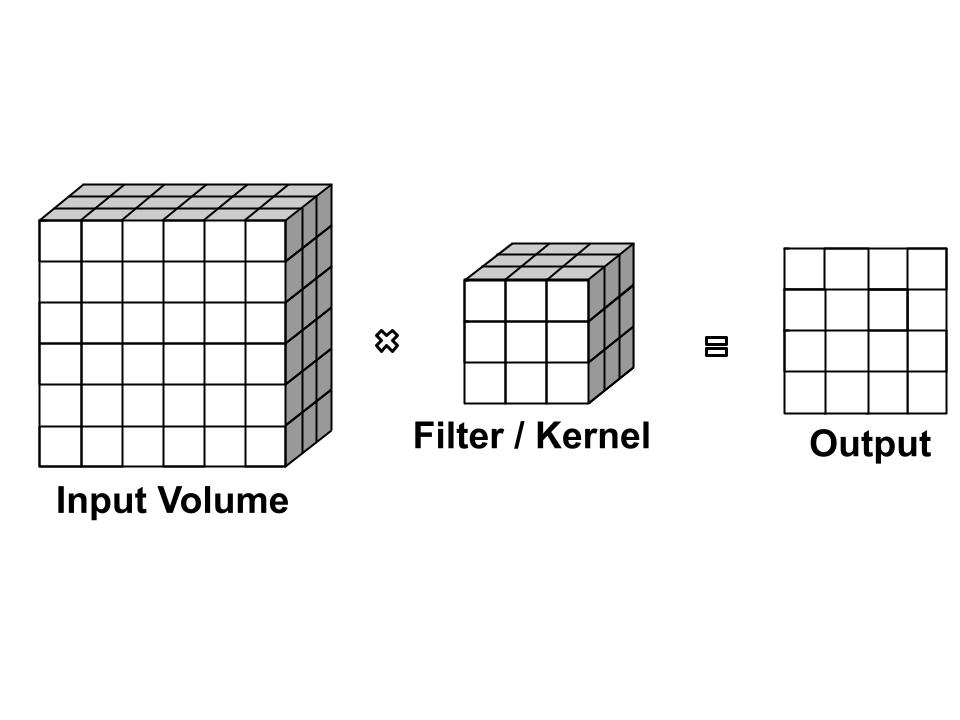
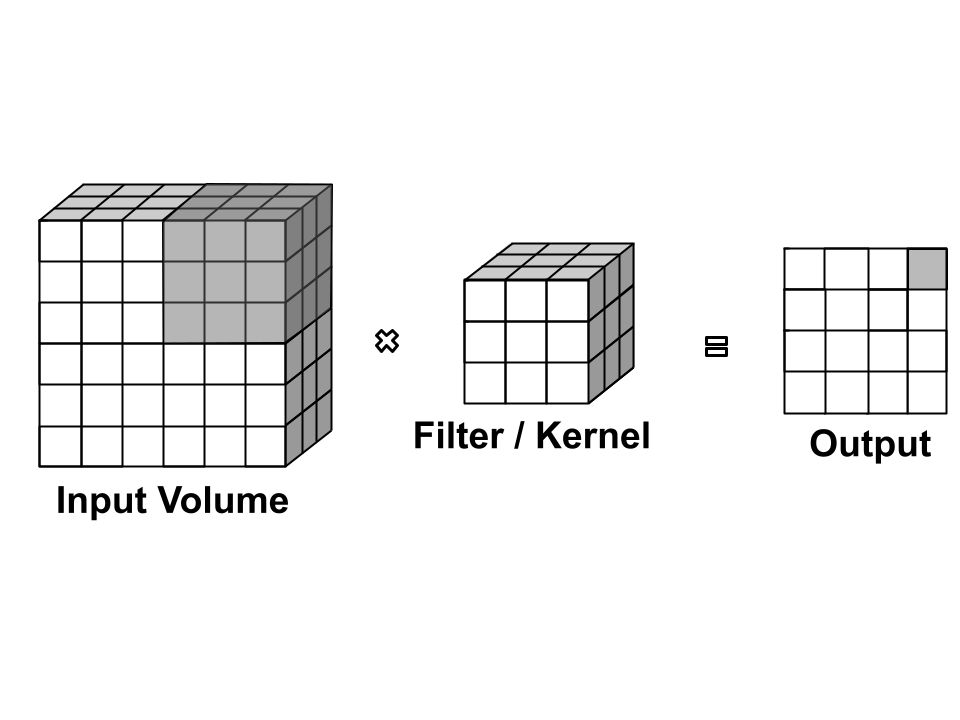
More improvements to the CNN chapter, with updates to two of the images to make more clear how filters work

Changed region(s): [[0.1562, 0.2444, 0.3438, 0.4889], [0.9375, 0.3361, 1.0, 0.3972]]

diff --git a/ConvolutionalNetworks.tex b/ConvolutionalNetworks.tex
@@ -32,7 +32,7 @@ The key idea with a deep network is to use a special type of weight layer called
 \begin{figure}[h]
 \centering
 \includegraphics[width=0.5\textwidth]{images/happyConvolution.png}
-\caption[Soraya Boza, adapting this image from User Cecbur, \url{https://commons.wikimedia.org/wiki/File:Convolutional_Neural_Network_NeuralNetworkFilter.gif}, with labels added by Jeff Yoshimi.]{A convolutional layer and its components. From left to right: an input image, a 3x3 convolutional filter (which detects edges with a $-45^\circ$ angle), and the resulting feature map. The filter is scanned across the image. At each stage of this scanning process, the dot product of the filter's receptive field in the input image is computed and used to populate the feature map. This whole process is known as a convolution and a layer like this is a convolutional layer. The filter itself is a set of shared weights and so this is essentialy a complex form of weight layer.}
+\caption[Soraya Boza, adapting this image from User Cecbur, \url{https://commons.wikimedia.org/wiki/File:Convolutional_Neural_Network_NeuralNetworkFilter.gif}, with labels added by Jeff Yoshimi.]{A convolutional layer and its components. From left to right: an input image, a 3x3 convolutional filter (which detects edges with a $-45^\circ$ angle), and the resulting feature map. The filter is scanned across the image. At each stage of this scanning process, the dot product of the filter's receptive field in the input image is computed and used to populate the feature map. This whole process is known as a convolution and a layer like this is a convolutional layer. The filter itself is a set of shared weights and so this is essentially a complex form of weight layer.}
 \label{cnn_filter}
 \end{figure}
 
@@ -46,7 +46,7 @@ The key idea with a deep network is to use a special type of weight layer called
 % Expand on weight sharing and add glossary item. Discuss the fact that this is not neurally realistic and ways to understand that.
 The set of weights in a convolutional layer is called a \glossary{filter} or \textbf{kernel}. The weights in a filter are scanned over the source layer to produce outputs. This is a new idea. Rather than a fixed set of weights in a fully-connected weight layer, we have a small set of weights that are reused or shared during the scanning operation (this is also known as ``weight sharing'').
 
- The source layer of a convolutional layer is often a 2d array, prototypically an input image, and so we can think of source layer activations as pixels and the source layer as a pixel array or input volume (even when the input is not an image, this language is useful). Filters are like small pixel patterns that we slide across the whole pixel array, which ``light up'' most when they are on top of a similar pixel pattern. The filter can be thought of as if it were moved from left to right and top to bottom of the pixel array. At each stage of the scanning process, it is multiplied by the patch or ``receptive field''  of the pixel array it is on top of.\footnote{To get a better feel for how this works videos are helpful. A good place  to start is with the first animated gif here: \url{https://stanford.edu/~shervine/teaching/cs-230/cheatsheet-convolutional-neural-networks}. This video is also great: \url{https://youtu.be/KuXjwB4LzSA}. Also note that in practice this operation is done in parallel: separate processors handle each multiplication.} The multiplication is a dot product (see chapter \extref{ch_linear_algebra}), where each weight in the filter is multiplied by the corresponding activation of the pixel array, and the results are added together. Recall that the dot product computes something like a similarity score: the more the filter and the pixels match, the greater the dot product will be. Each dot product is used to populate one activation in the target layer. Thus, the convolutional layer computes a kind of \emph{sliding dot product} with the source activations, which highlights where the filter matches the pixel array.
+ The source layer of a convolutional layer is often a 2d array, prototypically an input image, and so we can think of source layer activations as pixels and the source layer as a pixel array or input volume (even when the input is not an image, this language is useful). Filters are like small pixel patterns that we slide across the whole pixel array, which ``light up'' most when they are on top of a similar pixel pattern. The filter can be thought of as if it were moved from left to right and top to bottom of the pixel array. At each stage of the scanning process, it is multiplied by the patch or ``receptive field'' of the pixel array it is on top of. The receptive field refers to the region of the input that the filter is currently positioned over.\footnote{To get a better feel for how this works videos are helpful. A good place  to start is with the first animated gif here: \url{https://stanford.edu/~shervine/teaching/cs-230/cheatsheet-convolutional-neural-networks}. This video is also great: \url{https://youtu.be/KuXjwB4LzSA}. Also note that in practice this operation is done in parallel: separate processors handle each multiplication.} The multiplication is a dot product (see chapter \extref{ch_linear_algebra}), where each weight in the filter is multiplied by the corresponding activation of the pixel array, and the results are added together. Recall that the dot product computes something like a similarity score: the more the filter and the pixels match, the greater the dot product will be. Each dot product is used to populate one activation in the target layer. Thus, the convolutional layer computes a kind of \emph{sliding dot product} with the source activations, which highlights where the filter matches the pixel array.
  
  The number of pixels the filter moves at each step is called the \glossary{stride}. Strides can be different in different directions, but we will assume they are the same in all directions. One issue that comes up is the edges, which the filter can't be passed over. To handle this, \glossary{padding} can be added to the input volume, in the form of extra zeros around the edges of the input pixel array. This can be done in such a way that the output volume ends up having the same shape as the input volume (more on this below).\footnote{This page contains an interactive tool that can be used to understand these concepts: \url{https://distill.pub/2019/computing-receptive-fields/}.}
 
@@ -85,7 +85,7 @@ We can now think about filters as volumes that act on other volumes, as in figur
 \begin{figure}
 \centering
 \includegraphics[width=0.5\textwidth]{images/filterToVolume.png}
-\caption[Soraya Boza and Jeff Yoshimi.]{imagine the filter being passed ``through'' the input volume, and being dotted with its receptive field at each stage of the operation, producing one number in the output.}
+\caption[Soraya Boza and Jeff Yoshimi.]{Imagine the filter being passed ``through'' the input volume, and being dotted with its receptive field at each stage of the operation, producing one number in the output. The current location of the filter in the input volume is shaded in, as is the corresponding square of the output array. }
 \label{filterToVolume}
 \end{figure}
 
@@ -94,8 +94,8 @@ In general, the depth of a filter (more specifically, the number of channels in 
 
 \begin{figure}
 \centering
-\includegraphics[width=0.9\textwidth]{images/filterDepth}
-\caption[Soraya Boza.]{Illustration of how filters usually have a depth that matches the input volume they are passed over. Shown are sample receptive fields for four filters, each of which is shown at one stage of a convolutional pass. Alternatively, think of these panels as showing filters placed ``inside'' their corresponding input volumes and moved through them.}
+\includegraphics[width=1.0\textwidth]{images/filterDepth.png}
+\caption[Soraya Boza.]{Filters usually have a depth that matches the input volume they are passed over. Shown are sample receptive fields for two filters, at one stage of a convolutional pass. Notice that the output of the operation is just a matrix, with one entry for each ``position'' of the filter inside the input volume.}
 \label{filterDepth}
 \end{figure}
 
@@ -105,7 +105,7 @@ Ignoring padding, the formula for width and height of the output tensor relative
 \text{Output Height} &= \left(  \frac{\text{Input Height} - \text{Filter Height}}{\text{Stride}} \right) + 1
 \end{align*}
 
-In the example shown in figure \ref{filterToVolume} the input width is $6$, the filter width is $3$, and the stride (the amount it is moved for each step of a convolution) is $1$ so the output width is $((6-3)/1 + 1) = 4$. Same for the height.  The depth of the output  corresponds to the number of filters we have (more on this soon), and so far we have just considered a single filter, a single ``Rubik's cube''. Wwe have one filter, so the output depth is one. So the output is $1 \times 4 \times 4$, a four-by-four matrix.
+In the example shown in figure \ref{filterToVolume} the input width is $6$, the filter width is $3$, and the stride (the amount it is moved for each step of a convolution) is $1$ so the output width is $((6-3)/1 + 1) = 4$. Same for the height.  The depth of the output  corresponds to the number of filters we have (more on this soon), and so far we have just considered a single filter, a single ``Rubik's cube''. We have one filter, so the output depth is one. So the output is $1 \times 4 \times 4$, a four-by-four matrix.
 
 \section{Filter Banks (Representational Width)}
 
